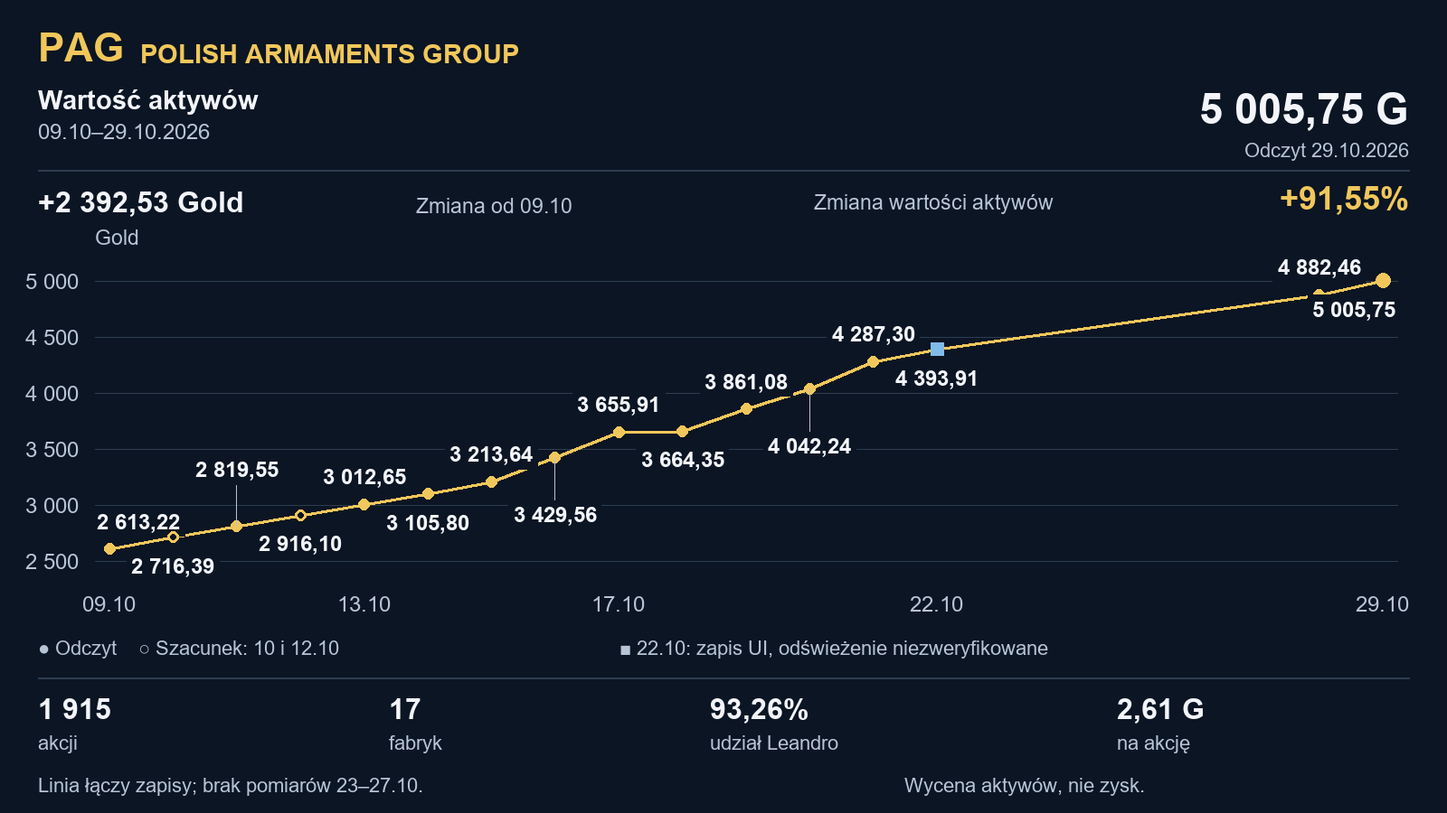
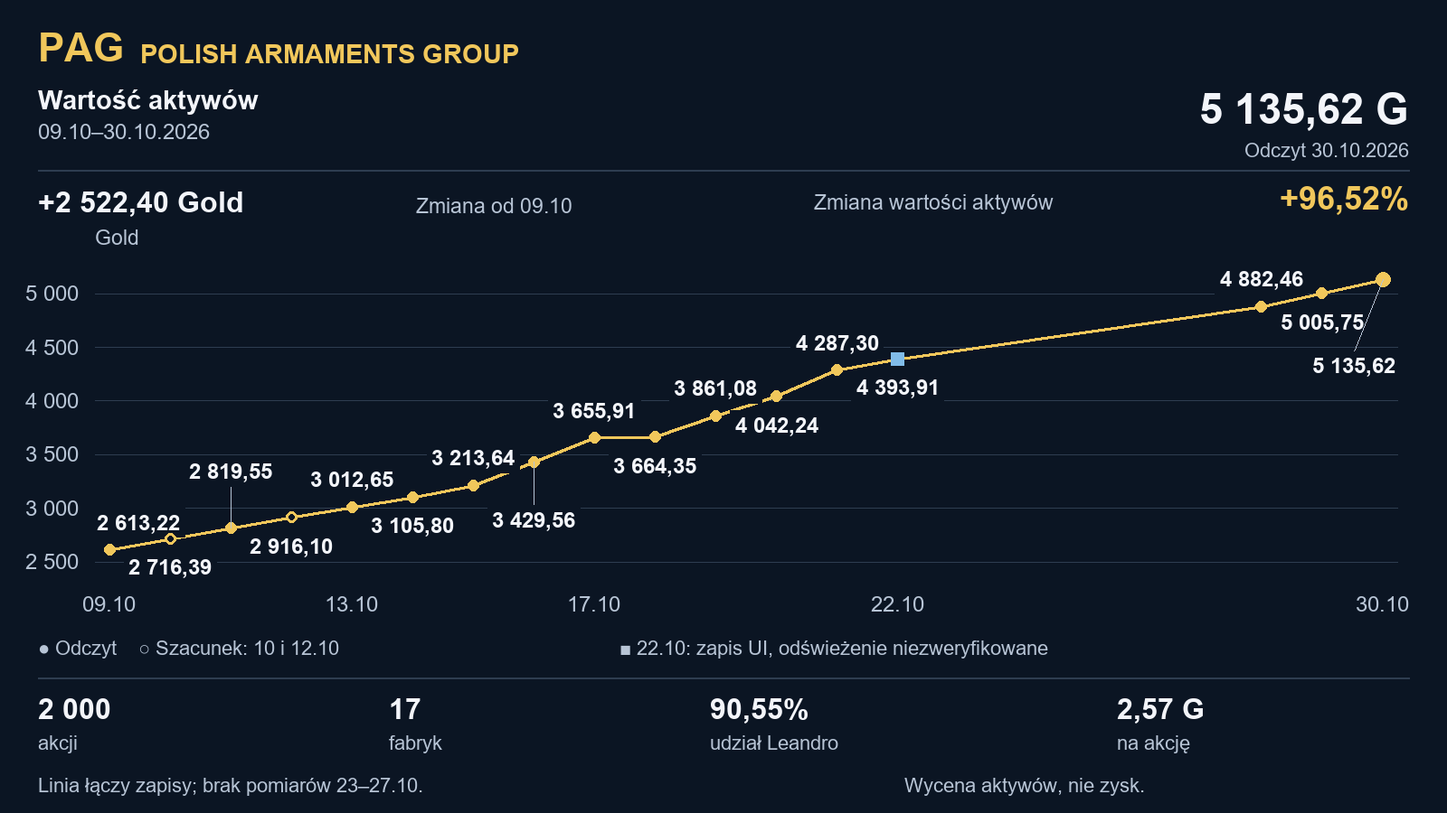
Add daily PAG measurement for 30 October 2026

diff --git a/pag-chart.html b/pag-chart.html
@@ -1805,7 +1805,7 @@ html&gt;body{padding:0}&lt;/style&gt;
 &lt;script src=&quot;https://cdn.jsdelivr.net/npm/d3@7.9.0/dist/d3.min.js&quot;&gt;&lt;/script&gt;
 &lt;script&gt;
 (()=&gt;{
-const history={&quot;company&quot;: &quot;Polish Armaments Group&quot;, &quot;source_url&quot;: &quot;https://vexa.e-sim.org/stockCompany.html?id=45&quot;, &quot;timezone&quot;: &quot;Europe/Warsaw&quot;, &quot;definitions&quot;: {&quot;value_gold&quot;: &quot;Szacowana wartość spółki według Vexa; nie jest zyskiem ani kapitalizacją rynkową.&quot;, &quot;book_value_per_share_gold&quot;: &quot;value_gold / shares; obliczenie, nie cena transakcyjna.&quot;, &quot;factories&quot;: &quot;Ogólnie firm na stronie spółki.&quot;, &quot;leandro_percent&quot;: &quot;100 * leandro_shares / shares&quot;, &quot;status&quot;: &quot;confirmed_in_user_report: odczyt oznaczony jako potwierdzony w raporcie użytkownika; bez niezależnej weryfikacji. estimated_missing_day: szacunek brakującego dnia, nie pomiar. saved_ui_refresh_unverified: zapis UI, odświeżenie wyceny niezweryfikowane.&quot;}, &quot;observations&quot;: [{&quot;date&quot;: &quot;2026-10-09&quot;, &quot;observed_at&quot;: null, &quot;value_gold&quot;: 2613.22, &quot;shares&quot;: null, &quot;leandro_shares&quot;: null, &quot;leandro_percent_reported&quot;: null, &quot;factories&quot;: null, &quot;shareholders&quot;: null, &quot;reported_book_value_per_share_gold&quot;: null, &quot;status&quot;: &quot;confirmed_in_user_report&quot;, &quot;source&quot;: &quot;Raport graficzny przesłany przez użytkownika 2026-10-29&quot;, &quot;source_url&quot;: &quot;https://github.com/piotrzdrenka-droid/pag-chart/blob/main/pag-chart.png?raw=true&quot;, &quot;source_blob_sha&quot;: &quot;903d835cdb9e62c0f7de1f23d691339e15198607&quot;}, {&quot;date&quot;: &quot;2026-10-10&quot;, &quot;observed_at&quot;: null, &quot;value_gold&quot;: 2716.39, &quot;shares&quot;: null, &quot;leandro_shares&quot;: null, &quot;leandro_percent_reported&quot;: null, &quot;factories&quot;: null, &quot;shareholders&quot;: null, &quot;reported_book_value_per_share_gold&quot;: null, &quot;status&quot;: &quot;estimated_missing_day&quot;, &quot;source&quot;: &quot;Raport graficzny przesłany przez użytkownika 2026-10-29&quot;, &quot;source_url&quot;: &quot;https://github.com/piotrzdrenka-droid/pag-chart/blob/main/pag-chart.png?raw=true&quot;, &quot;source_blob_sha&quot;: &quot;903d835cdb9e62c0f7de1f23d691339e15198607&quot;}, {&quot;date&quot;: &quot;2026-10-11&quot;, &quot;observed_at&quot;: null, &quot;value_gold&quot;: 2819.55, &quot;shares&quot;: 1572, &quot;leandro_shares&quot;: 1490, &quot;leandro_percent_reported&quot;: 94.78, &quot;factories&quot;: 14, &quot;reported_book_value_per_share_gold&quot;: null, &quot;source&quot;: &quot;Dane historyczne przekazane przez użytkownika 2026-10-28&quot;, &quot;corroborating_sources&quot;: [&quot;Raport ze zdjęcia przekazany 2026-10-29&quot;], &quot;status&quot;: &quot;confirmed&quot;}, {&quot;date&quot;: &quot;2026-10-12&quot;, &quot;observed_at&quot;: null, &quot;value_gold&quot;: 2916.1, &quot;shares&quot;: null, &quot;leandro_shares&quot;: null, &quot;leandro_percent_reported&quot;: null, &quot;factories&quot;: null, &quot;shareholders&quot;: null, &quot;reported_book_value_per_share_gold&quot;: null, &quot;status&quot;: &quot;estimated_missing_day&quot;, &quot;source&quot;: &quot;Raport graficzny przesłany przez użytkownika 2026-10-29&quot;, &quot;source_url&quot;: &quot;https://github.com/piotrzdrenka-droid/pag-chart/blob/main/pag-chart.png?raw=true&quot;, &quot;source_blob_sha&quot;: &quot;903d835cdb9e62c0f7de1f23d691339e15198607&quot;}, {&quot;date&quot;: &quot;2026-10-13&quot;, &quot;observed_at&quot;: null, &quot;value_gold&quot;: 3012.65, &quot;shares&quot;: null, &quot;leandro_shares&quot;: null, &quot;leandro_percent_reported&quot;: null, &quot;factories&quot;: null, &quot;shareholders&quot;: null, &quot;reported_book_value_per_share_gold&quot;: null, &quot;status&quot;: &quot;confirmed_in_user_report&quot;, &quot;source&quot;: &quot;Raport graficzny przesłany przez użytkownika 2026-10-29&quot;, &quot;source_url&quot;: &quot;https://github.com/piotrzdrenka-droid/pag-chart/blob/main/pag-chart.png?raw=true&quot;, &quot;source_blob_sha&quot;: &quot;903d835cdb9e62c0f7de1f23d691339e15198607&quot;}, {&quot;date&quot;: &quot;2026-10-14&quot;, &quot;observed_at&quot;: null, &quot;value_gold&quot;: 3105.8, &quot;shares&quot;: null, &quot;leandro_shares&quot;: null, &quot;leandro_percent_reported&quot;: null, &quot;factories&quot;: null, &quot;shareholders&quot;: null, &quot;reported_book_value_per_share_gold&quot;: null, &quot;status&quot;: &quot;confirmed_in_user_report&quot;, &quot;source&quot;: &quot;Raport graficzny przesłany przez użytkownika 2026-10-29&quot;, &quot;source_url&quot;: &quot;https://github.com/piotrzdrenka-droid/pag-chart/blob/main/pag-chart.png?raw=true&quot;, &quot;source_blob_sha&quot;: &quot;903d835cdb9e62c0f7de1f23d691339e15198607&quot;}, {&quot;date&quot;: &quot;2026-10-15&quot;, &quot;observed_at&quot;: null, &quot;value_gold&quot;: 3213.64, &quot;shares&quot;: null, &quot;leandro_shares&quot;: null, &quot;leandro_percent_reported&quot;: null, &quot;factories&quot;: null, &quot;shareholders&quot;: null, &quot;reported_book_value_per_share_gold&quot;: null, &quot;status&quot;: &quot;confirmed_in_user_report&quot;, &quot;source&quot;: &quot;Raport graficzny przesłany przez użytkownika 2026-10-29&quot;, &quot;source_url&quot;: &quot;https://github.com/piotrzdrenka-droid/pag-chart/blob/main/pag-chart.png?raw=true&quot;, &quot;source_blob_sha&quot;: &quot;903d835cdb9e62c0f7de1f23d691339e15198607&quot;}, {&quot;date&quot;: &quot;2026-10-16&quot;, &quot;observed_at&quot;: null, &quot;value_gold&quot;: 3429.56, &quot;shares&quot;: null, &quot;leandro_shares&quot;: null, &quot;leandro_percent_reported&quot;: null, &quot;factories&quot;: null, &quot;shareholders&quot;: null, &quot;reported_book_value_per_share_gold&quot;: null, &quot;status&quot;: &quot;confirmed_in_user_report&quot;, &quot;source&quot;: &quot;Raport graficzny przesłany przez użytkownika 2026-10-29&quot;, &quot;source_url&quot;: &quot;https://github.com/piotrzdrenka-droid/pag-chart/blob/main/pag-chart.png?raw=true&quot;, &quot;source_blob_sha&quot;: &quot;903d835cdb9e62c0f7de1f23d691339e15198607&quot;}, {&quot;date&quot;: &quot;2026-10-17&quot;, &quot;observed_at&quot;: null, &quot;value_gold&quot;: 3655.91, &quot;shares&quot;: null, &quot;leandro_shares&quot;: null, &quot;leandro_percent_reported&quot;: null, &quot;factories&quot;: null, &quot;shareholders&quot;: null, &quot;reported_book_value_per_share_gold&quot;: null, &quot;status&quot;: &quot;confirmed_in_user_report&quot;, &quot;source&quot;: &quot;Raport graficzny przesłany przez użytkownika 2026-10-29&quot;, &quot;source_url&quot;: &quot;https://github.com/piotrzdrenka-droid/pag-chart/blob/main/pag-chart.png?raw=true&quot;, &quot;source_blob_sha&quot;: &quot;903d835cdb9e62c0f7de1f23d691339e15198607&quot;}, {&quot;date&quot;: &quot;2026-10-18&quot;, &quot;observed_at&quot;: null, &quot;value_gold&quot;: 3664.35, &quot;shares&quot;: null, &quot;leandro_shares&quot;: null, &quot;leandro_percent_reported&quot;: null, &quot;factories&quot;: null, &quot;shareholders&quot;: null, &quot;reported_book_value_per_share_gold&quot;: null, &quot;status&quot;: &quot;confirmed_in_user_report&quot;, &quot;source&quot;: &quot;Raport graficzny przesłany przez użytkownika 2026-10-29&quot;, &quot;source_url&quot;: &quot;https://github.com/piotrzdrenka-droid/pag-chart/blob/main/pag-chart.png?raw=true&quot;, &quot;source_blob_sha&quot;: &quot;903d835cdb9e62c0f7de1f23d691339e15198607&quot;}, {&quot;date&quot;: &quot;2026-10-19&quot;, &quot;observed_at&quot;: null, &quot;value_gold&quot;: 3861.08, &quot;shares&quot;: null, &quot;leandro_shares&quot;: null, &quot;leandro_percent_reported&quot;: null, &quot;factories&quot;: null, &quot;shareholders&quot;: null, &quot;reported_book_value_per_share_gold&quot;: null, &quot;status&quot;: &quot;confirmed_in_user_report&quot;, &quot;source&quot;: &quot;Raport graficzny przesłany przez użytkownika 2026-10-29&quot;, &quot;source_url&quot;: &quot;https://github.com/piotrzdrenka-droid/pag-chart/blob/main/pag-chart.png?raw=true&quot;, &quot;source_blob_sha&quot;: &quot;903d835cdb9e62c0f7de1f23d691339e15198607&quot;}, {&quot;date&quot;: &quot;2026-10-20&quot;, &quot;observed_at&quot;: null, &quot;value_gold&quot;: 4042.24, &quot;shares&quot;: null, &quot;leandro_shares&quot;: null, &quot;leandro_percent_reported&quot;: null, &quot;factories&quot;: null, &quot;shareholders&quot;: null, &quot;reported_book_value_per_share_gold&quot;: null, &quot;status&quot;: &quot;confirmed_in_user_report&quot;, &quot;source&quot;: &quot;Raport graficzny przesłany przez użytkownika 2026-10-29&quot;, &quot;source_url&quot;: &quot;https://github.com/piotrzdrenka-droid/pag-chart/blob/main/pag-chart.png?raw=true&quot;, &quot;source_blob_sha&quot;: &quot;903d835cdb9e62c0f7de1f23d691339e15198607&quot;}, {&quot;date&quot;: &quot;2026-10-21&quot;, &quot;observed_at&quot;: null, &quot;value_gold&quot;: 4287.3, &quot;shares&quot;: null, &quot;leandro_shares&quot;: null, &quot;leandro_percent_reported&quot;: null, &quot;factories&quot;: null, &quot;shareholders&quot;: null, &quot;reported_book_value_per_share_gold&quot;: null, &quot;status&quot;: &quot;confirmed_in_user_report&quot;, &quot;source&quot;: &quot;Raport graficzny przesłany przez użytkownika 2026-10-29&quot;, &quot;source_url&quot;: &quot;https://github.com/piotrzdrenka-droid/pag-chart/blob/main/pag-chart.png?raw=true&quot;, &quot;source_blob_sha&quot;: &quot;903d835cdb9e62c0f7de1f23d691339e15198607&quot;}, {&quot;date&quot;: &quot;2026-10-22&quot;, &quot;observed_at&quot;: null, &quot;value_gold&quot;: 4393.91, &quot;shares&quot;: 1888, &quot;leandro_shares&quot;: null, &quot;leandro_percent_reported&quot;: null, &quot;factories&quot;: 16, &quot;shareholders&quot;: 9, &quot;reported_book_value_per_share_gold&quot;: 2.33, &quot;status&quot;: &quot;saved_ui_refresh_unverified&quot;, &quot;source&quot;: &quot;Raport graficzny przesłany przez użytkownika 2026-10-29&quot;, &quot;source_url&quot;: &quot;https://github.com/piotrzdrenka-droid/pag-chart/blob/main/pag-chart.png?raw=true&quot;, &quot;source_blob_sha&quot;: &quot;903d835cdb9e62c0f7de1f23d691339e15198607&quot;}, {&quot;date&quot;: &quot;2026-10-28&quot;, &quot;observed_at&quot;: &quot;2026-10-28T18:58:00Z&quot;, &quot;value_gold&quot;: 4882.46, &quot;shares&quot;: 1908, &quot;leandro_shares&quot;: 1779, &quot;leandro_percent_reported&quot;: 93.24, &quot;factories&quot;: 17, &quot;reported_book_value_per_share_gold&quot;: 2.56, &quot;source&quot;: &quot;Odczyt widocznej strony Vexa bez logowania; czas zapisu pomiaru, nie czas wyceny aktywów&quot;, &quot;status&quot;: &quot;confirmed&quot;}, {&quot;date&quot;: &quot;2026-10-29&quot;, &quot;observed_at&quot;: &quot;2026-10-29T18:12:54Z&quot;, &quot;value_gold&quot;: 5005.75, &quot;shares&quot;: 1915, &quot;leandro_shares&quot;: 1786, &quot;leandro_percent_reported&quot;: 93.26, &quot;factories&quot;: 17, &quot;shareholders&quot;: 9, &quot;reported_book_value_per_share_gold&quot;: 2.61, &quot;status&quot;: &quot;confirmed&quot;, &quot;source&quot;: &quot;Odczyt publicznej strony Vexa po wybraniu Odśwież. Serwis potwierdził: Raport został odświeżony. Czas zapisu pomiaru, nie gwarantowany czas wyceny poszczególnych aktywów.&quot;, &quot;source_url&quot;: &quot;https://vexa.e-sim.org/stockCompany.html?id=45&quot;, &quot;report_refresh_confirmed&quot;: true}], &quot;events&quot;: [{&quot;date&quot;: &quot;2026-10-13&quot;, &quot;type&quot;: &quot;dividend&quot;, &quot;amount_gold&quot;: 200, &quot;source&quot;: &quot;Raport graficzny użytkownika&quot;, &quot;notes&quot;: &quot;Wypłata według raportu. Nie doliczono do wartości aktywów.&quot;}]};
+const history={&quot;company&quot;: &quot;Polish Armaments Group&quot;, &quot;source_url&quot;: &quot;https://vexa.e-sim.org/stockCompany.html?id=45&quot;, &quot;timezone&quot;: &quot;Europe/Warsaw&quot;, &quot;definitions&quot;: {&quot;value_gold&quot;: &quot;Szacowana wartość spółki według Vexa; nie jest zyskiem ani kapitalizacją rynkową.&quot;, &quot;book_value_per_share_gold&quot;: &quot;value_gold / shares; obliczenie, nie cena transakcyjna.&quot;, &quot;factories&quot;: &quot;Ogólnie firm na stronie spółki.&quot;, &quot;leandro_percent&quot;: &quot;100 * leandro_shares / shares&quot;, &quot;status&quot;: &quot;confirmed_in_user_report: odczyt oznaczony jako potwierdzony w raporcie użytkownika; bez niezależnej weryfikacji. estimated_missing_day: szacunek brakującego dnia, nie pomiar. saved_ui_refresh_unverified: zapis UI, odświeżenie wyceny niezweryfikowane.&quot;}, &quot;observations&quot;: [{&quot;date&quot;: &quot;2026-10-09&quot;, &quot;observed_at&quot;: null, &quot;value_gold&quot;: 2613.22, &quot;shares&quot;: null, &quot;leandro_shares&quot;: null, &quot;leandro_percent_reported&quot;: null, &quot;factories&quot;: null, &quot;shareholders&quot;: null, &quot;reported_book_value_per_share_gold&quot;: null, &quot;status&quot;: &quot;confirmed_in_user_report&quot;, &quot;source&quot;: &quot;Raport graficzny przesłany przez użytkownika 2026-10-29&quot;, &quot;source_url&quot;: &quot;https://github.com/piotrzdrenka-droid/pag-chart/blob/main/pag-chart.png?raw=true&quot;, &quot;source_blob_sha&quot;: &quot;903d835cdb9e62c0f7de1f23d691339e15198607&quot;}, {&quot;date&quot;: &quot;2026-10-10&quot;, &quot;observed_at&quot;: null, &quot;value_gold&quot;: 2716.39, &quot;shares&quot;: null, &quot;leandro_shares&quot;: null, &quot;leandro_percent_reported&quot;: null, &quot;factories&quot;: null, &quot;shareholders&quot;: null, &quot;reported_book_value_per_share_gold&quot;: null, &quot;status&quot;: &quot;estimated_missing_day&quot;, &quot;source&quot;: &quot;Raport graficzny przesłany przez użytkownika 2026-10-29&quot;, &quot;source_url&quot;: &quot;https://github.com/piotrzdrenka-droid/pag-chart/blob/main/pag-chart.png?raw=true&quot;, &quot;source_blob_sha&quot;: &quot;903d835cdb9e62c0f7de1f23d691339e15198607&quot;}, {&quot;date&quot;: &quot;2026-10-11&quot;, &quot;observed_at&quot;: null, &quot;value_gold&quot;: 2819.55, &quot;shares&quot;: 1572, &quot;leandro_shares&quot;: 1490, &quot;leandro_percent_reported&quot;: 94.78, &quot;factories&quot;: 14, &quot;reported_book_value_per_share_gold&quot;: null, &quot;source&quot;: &quot;Dane historyczne przekazane przez użytkownika 2026-10-28&quot;, &quot;corroborating_sources&quot;: [&quot;Raport ze zdjęcia przekazany 2026-10-29&quot;], &quot;status&quot;: &quot;confirmed&quot;}, {&quot;date&quot;: &quot;2026-10-12&quot;, &quot;observed_at&quot;: null, &quot;value_gold&quot;: 2916.1, &quot;shares&quot;: null, &quot;leandro_shares&quot;: null, &quot;leandro_percent_reported&quot;: null, &quot;factories&quot;: null, &quot;shareholders&quot;: null, &quot;reported_book_value_per_share_gold&quot;: null, &quot;status&quot;: &quot;estimated_missing_day&quot;, &quot;source&quot;: &quot;Raport graficzny przesłany przez użytkownika 2026-10-29&quot;, &quot;source_url&quot;: &quot;https://github.com/piotrzdrenka-droid/pag-chart/blob/main/pag-chart.png?raw=true&quot;, &quot;source_blob_sha&quot;: &quot;903d835cdb9e62c0f7de1f23d691339e15198607&quot;}, {&quot;date&quot;: &quot;2026-10-13&quot;, &quot;observed_at&quot;: null, &quot;value_gold&quot;: 3012.65, &quot;shares&quot;: null, &quot;leandro_shares&quot;: null, &quot;leandro_percent_reported&quot;: null, &quot;factories&quot;: null, &quot;shareholders&quot;: null, &quot;reported_book_value_per_share_gold&quot;: null, &quot;status&quot;: &quot;confirmed_in_user_report&quot;, &quot;source&quot;: &quot;Raport graficzny przesłany przez użytkownika 2026-10-29&quot;, &quot;source_url&quot;: &quot;https://github.com/piotrzdrenka-droid/pag-chart/blob/main/pag-chart.png?raw=true&quot;, &quot;source_blob_sha&quot;: &quot;903d835cdb9e62c0f7de1f23d691339e15198607&quot;}, {&quot;date&quot;: &quot;2026-10-14&quot;, &quot;observed_at&quot;: null, &quot;value_gold&quot;: 3105.8, &quot;shares&quot;: null, &quot;leandro_shares&quot;: null, &quot;leandro_percent_reported&quot;: null, &quot;factories&quot;: null, &quot;shareholders&quot;: null, &quot;reported_book_value_per_share_gold&quot;: null, &quot;status&quot;: &quot;confirmed_in_user_report&quot;, &quot;source&quot;: &quot;Raport graficzny przesłany przez użytkownika 2026-10-29&quot;, &quot;source_url&quot;: &quot;https://github.com/piotrzdrenka-droid/pag-chart/blob/main/pag-chart.png?raw=true&quot;, &quot;source_blob_sha&quot;: &quot;903d835cdb9e62c0f7de1f23d691339e15198607&quot;}, {&quot;date&quot;: &quot;2026-10-15&quot;, &quot;observed_at&quot;: null, &quot;value_gold&quot;: 3213.64, &quot;shares&quot;: null, &quot;leandro_shares&quot;: null, &quot;leandro_percent_reported&quot;: null, &quot;factories&quot;: null, &quot;shareholders&quot;: null, &quot;reported_book_value_per_share_gold&quot;: null, &quot;status&quot;: &quot;confirmed_in_user_report&quot;, &quot;source&quot;: &quot;Raport graficzny przesłany przez użytkownika 2026-10-29&quot;, &quot;source_url&quot;: &quot;https://github.com/piotrzdrenka-droid/pag-chart/blob/main/pag-chart.png?raw=true&quot;, &quot;source_blob_sha&quot;: &quot;903d835cdb9e62c0f7de1f23d691339e15198607&quot;}, {&quot;date&quot;: &quot;2026-10-16&quot;, &quot;observed_at&quot;: null, &quot;value_gold&quot;: 3429.56, &quot;shares&quot;: null, &quot;leandro_shares&quot;: null, &quot;leandro_percent_reported&quot;: null, &quot;factories&quot;: null, &quot;shareholders&quot;: null, &quot;reported_book_value_per_share_gold&quot;: null, &quot;status&quot;: &quot;confirmed_in_user_report&quot;, &quot;source&quot;: &quot;Raport graficzny przesłany przez użytkownika 2026-10-29&quot;, &quot;source_url&quot;: &quot;https://github.com/piotrzdrenka-droid/pag-chart/blob/main/pag-chart.png?raw=true&quot;, &quot;source_blob_sha&quot;: &quot;903d835cdb9e62c0f7de1f23d691339e15198607&quot;}, {&quot;date&quot;: &quot;2026-10-17&quot;, &quot;observed_at&quot;: null, &quot;value_gold&quot;: 3655.91, &quot;shares&quot;: null, &quot;leandro_shares&quot;: null, &quot;leandro_percent_reported&quot;: null, &quot;factories&quot;: null, &quot;shareholders&quot;: null, &quot;reported_book_value_per_share_gold&quot;: null, &quot;status&quot;: &quot;confirmed_in_user_report&quot;, &quot;source&quot;: &quot;Raport graficzny przesłany przez użytkownika 2026-10-29&quot;, &quot;source_url&quot;: &quot;https://github.com/piotrzdrenka-droid/pag-chart/blob/main/pag-chart.png?raw=true&quot;, &quot;source_blob_sha&quot;: &quot;903d835cdb9e62c0f7de1f23d691339e15198607&quot;}, {&quot;date&quot;: &quot;2026-10-18&quot;, &quot;observed_at&quot;: null, &quot;value_gold&quot;: 3664.35, &quot;shares&quot;: null, &quot;leandro_shares&quot;: null, &quot;leandro_percent_reported&quot;: null, &quot;factories&quot;: null, &quot;shareholders&quot;: null, &quot;reported_book_value_per_share_gold&quot;: null, &quot;status&quot;: &quot;confirmed_in_user_report&quot;, &quot;source&quot;: &quot;Raport graficzny przesłany przez użytkownika 2026-10-29&quot;, &quot;source_url&quot;: &quot;https://github.com/piotrzdrenka-droid/pag-chart/blob/main/pag-chart.png?raw=true&quot;, &quot;source_blob_sha&quot;: &quot;903d835cdb9e62c0f7de1f23d691339e15198607&quot;}, {&quot;date&quot;: &quot;2026-10-19&quot;, &quot;observed_at&quot;: null, &quot;value_gold&quot;: 3861.08, &quot;shares&quot;: null, &quot;leandro_shares&quot;: null, &quot;leandro_percent_reported&quot;: null, &quot;factories&quot;: null, &quot;shareholders&quot;: null, &quot;reported_book_value_per_share_gold&quot;: null, &quot;status&quot;: &quot;confirmed_in_user_report&quot;, &quot;source&quot;: &quot;Raport graficzny przesłany przez użytkownika 2026-10-29&quot;, &quot;source_url&quot;: &quot;https://github.com/piotrzdrenka-droid/pag-chart/blob/main/pag-chart.png?raw=true&quot;, &quot;source_blob_sha&quot;: &quot;903d835cdb9e62c0f7de1f23d691339e15198607&quot;}, {&quot;date&quot;: &quot;2026-10-20&quot;, &quot;observed_at&quot;: null, &quot;value_gold&quot;: 4042.24, &quot;shares&quot;: null, &quot;leandro_shares&quot;: null, &quot;leandro_percent_reported&quot;: null, &quot;factories&quot;: null, &quot;shareholders&quot;: null, &quot;reported_book_value_per_share_gold&quot;: null, &quot;status&quot;: &quot;confirmed_in_user_report&quot;, &quot;source&quot;: &quot;Raport graficzny przesłany przez użytkownika 2026-10-29&quot;, &quot;source_url&quot;: &quot;https://github.com/piotrzdrenka-droid/pag-chart/blob/main/pag-chart.png?raw=true&quot;, &quot;source_blob_sha&quot;: &quot;903d835cdb9e62c0f7de1f23d691339e15198607&quot;}, {&quot;date&quot;: &quot;2026-10-21&quot;, &quot;observed_at&quot;: null, &quot;value_gold&quot;: 4287.3, &quot;shares&quot;: null, &quot;leandro_shares&quot;: null, &quot;leandro_percent_reported&quot;: null, &quot;factories&quot;: null, &quot;shareholders&quot;: null, &quot;reported_book_value_per_share_gold&quot;: null, &quot;status&quot;: &quot;confirmed_in_user_report&quot;, &quot;source&quot;: &quot;Raport graficzny przesłany przez użytkownika 2026-10-29&quot;, &quot;source_url&quot;: &quot;https://github.com/piotrzdrenka-droid/pag-chart/blob/main/pag-chart.png?raw=true&quot;, &quot;source_blob_sha&quot;: &quot;903d835cdb9e62c0f7de1f23d691339e15198607&quot;}, {&quot;date&quot;: &quot;2026-10-22&quot;, &quot;observed_at&quot;: null, &quot;value_gold&quot;: 4393.91, &quot;shares&quot;: 1888, &quot;leandro_shares&quot;: null, &quot;leandro_percent_reported&quot;: null, &quot;factories&quot;: 16, &quot;shareholders&quot;: 9, &quot;reported_book_value_per_share_gold&quot;: 2.33, &quot;status&quot;: &quot;saved_ui_refresh_unverified&quot;, &quot;source&quot;: &quot;Raport graficzny przesłany przez użytkownika 2026-10-29&quot;, &quot;source_url&quot;: &quot;https://github.com/piotrzdrenka-droid/pag-chart/blob/main/pag-chart.png?raw=true&quot;, &quot;source_blob_sha&quot;: &quot;903d835cdb9e62c0f7de1f23d691339e15198607&quot;}, {&quot;date&quot;: &quot;2026-10-28&quot;, &quot;observed_at&quot;: &quot;2026-10-28T18:58:00Z&quot;, &quot;value_gold&quot;: 4882.46, &quot;shares&quot;: 1908, &quot;leandro_shares&quot;: 1779, &quot;leandro_percent_reported&quot;: 93.24, &quot;factories&quot;: 17, &quot;reported_book_value_per_share_gold&quot;: 2.56, &quot;source&quot;: &quot;Odczyt widocznej strony Vexa bez logowania; czas zapisu pomiaru, nie czas wyceny aktywów&quot;, &quot;status&quot;: &quot;confirmed&quot;}, {&quot;date&quot;: &quot;2026-10-29&quot;, &quot;observed_at&quot;: &quot;2026-10-29T18:12:54Z&quot;, &quot;value_gold&quot;: 5005.75, &quot;shares&quot;: 1915, &quot;leandro_shares&quot;: 1786, &quot;leandro_percent_reported&quot;: 93.26, &quot;factories&quot;: 17, &quot;shareholders&quot;: 9, &quot;reported_book_value_per_share_gold&quot;: 2.61, &quot;status&quot;: &quot;confirmed&quot;, &quot;source&quot;: &quot;Odczyt publicznej strony Vexa po wybraniu Odśwież. Serwis potwierdził: Raport został odświeżony. Czas zapisu pomiaru, nie gwarantowany czas wyceny poszczególnych aktywów.&quot;, &quot;source_url&quot;: &quot;https://vexa.e-sim.org/stockCompany.html?id=45&quot;, &quot;report_refresh_confirmed&quot;: true}, {&quot;date&quot;: &quot;2026-10-30&quot;, &quot;observed_at&quot;: &quot;2026-10-30T19:01:41Z&quot;, &quot;value_gold&quot;: 5135.62, &quot;shares&quot;: 2000, &quot;leandro_shares&quot;: 1811, &quot;leandro_percent_reported&quot;: 90.55, &quot;factories&quot;: 17, &quot;shareholders&quot;: 10, &quot;reported_book_value_per_share_gold&quot;: 2.57, &quot;status&quot;: &quot;confirmed&quot;, &quot;source&quot;: &quot;Odczyt widocznej strony Vexa. Nie wywołano odświeżenia raportu; czas odczytu nie potwierdza czasu wyceny aktywów.&quot;, &quot;source_url&quot;: &quot;https://vexa.e-sim.org/stockCompany.html?id=45&quot;, &quot;report_refresh_confirmed&quot;: false}], &quot;events&quot;: [{&quot;date&quot;: &quot;2026-10-13&quot;, &quot;type&quot;: &quot;dividend&quot;, &quot;amount_gold&quot;: 200, &quot;source&quot;: &quot;Raport graficzny użytkownika&quot;, &quot;notes&quot;: &quot;Wypłata według raportu. Nie doliczono do wartości aktywów.&quot;}]};
 const root=document.getElementById(&#x27;pag-growth&#x27;),select=root.querySelector(&#x27;select&#x27;),box=root.querySelector(&#x27;#pag-plot&#x27;);
 const data=history.observations.map(d=&gt;({...d,x:new Date(d.date+&#x27;T12:00:00Z&#x27;),ownership:d.leandro_shares!=null&amp;&amp;d.shares&gt;0?100*d.leandro_shares/d.shares:null,perShare:d.value_gold!=null&amp;&amp;d.shares&gt;0?d.value_gold/d.shares:null}));
 const metrics={value_gold:[&#x27;Wartość spółki&#x27;,&#x27;Gold&#x27;,2],shares:[&#x27;Wyemitowane akcje&#x27;,&#x27;akcje&#x27;,0],leandro_shares:[&#x27;Akcje Leandro Daniels&#x27;,&#x27;akcje&#x27;,0],ownership:[&#x27;Udział Leandro&#x27;,&#x27;%&#x27;,2],perShare:[&#x27;Wartość aktywów na akcję&#x27;,&#x27;Gold/akcję&#x27;,4],factories:[&#x27;Fabryki&#x27;,&#x27;fabryki&#x27;,0]};

diff --git a/pag-growth.html b/pag-growth.html
@@ -13,7 +13,7 @@
 <script src="https://cdn.jsdelivr.net/npm/d3@7.9.0/dist/d3.min.js"></script>
 <script>
 (()=>{
-const history={"company": "Polish Armaments Group", "source_url": "https://vexa.e-sim.org/stockCompany.html?id=45", "timezone": "Europe/Warsaw", "definitions": {"value_gold": "Szacowana wartość spółki według Vexa; nie jest zyskiem ani kapitalizacją rynkową.", "book_value_per_share_gold": "value_gold / shares; obliczenie, nie cena transakcyjna.", "factories": "Ogólnie firm na stronie spółki.", "leandro_percent": "100 * leandro_shares / shares", "status": "confirmed_in_user_report: odczyt oznaczony jako potwierdzony w raporcie użytkownika; bez niezależnej weryfikacji. estimated_missing_day: szacunek brakującego dnia, nie pomiar. saved_ui_refresh_unverified: zapis UI, odświeżenie wyceny niezweryfikowane."}, "observations": [{"date": "2026-10-09", "observed_at": null, "value_gold": 2613.22, "shares": null, "leandro_shares": null, "leandro_percent_reported": null, "factories": null, "shareholders": null, "reported_book_value_per_share_gold": null, "status": "confirmed_in_user_report", "source": "Raport graficzny przesłany przez użytkownika 2026-10-29", "source_url": "https://github.com/piotrzdrenka-droid/pag-chart/blob/main/pag-chart.png?raw=true", "source_blob_sha": "903d835cdb9e62c0f7de1f23d691339e15198607"}, {"date": "2026-10-10", "observed_at": null, "value_gold": 2716.39, "shares": null, "leandro_shares": null, "leandro_percent_reported": null, "factories": null, "shareholders": null, "reported_book_value_per_share_gold": null, "status": "estimated_missing_day", "source": "Raport graficzny przesłany przez użytkownika 2026-10-29", "source_url": "https://github.com/piotrzdrenka-droid/pag-chart/blob/main/pag-chart.png?raw=true", "source_blob_sha": "903d835cdb9e62c0f7de1f23d691339e15198607"}, {"date": "2026-10-11", "observed_at": null, "value_gold": 2819.55, "shares": 1572, "leandro_shares": 1490, "leandro_percent_reported": 94.78, "factories": 14, "reported_book_value_per_share_gold": null, "source": "Dane historyczne przekazane przez użytkownika 2026-10-28", "corroborating_sources": ["Raport ze zdjęcia przekazany 2026-10-29"], "status": "confirmed"}, {"date": "2026-10-12", "observed_at": null, "value_gold": 2916.1, "shares": null, "leandro_shares": null, "leandro_percent_reported": null, "factories": null, "shareholders": null, "reported_book_value_per_share_gold": null, "status": "estimated_missing_day", "source": "Raport graficzny przesłany przez użytkownika 2026-10-29", "source_url": "https://github.com/piotrzdrenka-droid/pag-chart/blob/main/pag-chart.png?raw=true", "source_blob_sha": "903d835cdb9e62c0f7de1f23d691339e15198607"}, {"date": "2026-10-13", "observed_at": null, "value_gold": 3012.65, "shares": null, "leandro_shares": null, "leandro_percent_reported": null, "factories": null, "shareholders": null, "reported_book_value_per_share_gold": null, "status": "confirmed_in_user_report", "source": "Raport graficzny przesłany przez użytkownika 2026-10-29", "source_url": "https://github.com/piotrzdrenka-droid/pag-chart/blob/main/pag-chart.png?raw=true", "source_blob_sha": "903d835cdb9e62c0f7de1f23d691339e15198607"}, {"date": "2026-10-14", "observed_at": null, "value_gold": 3105.8, "shares": null, "leandro_shares": null, "leandro_percent_reported": null, "factories": null, "shareholders": null, "reported_book_value_per_share_gold": null, "status": "confirmed_in_user_report", "source": "Raport graficzny przesłany przez użytkownika 2026-10-29", "source_url": "https://github.com/piotrzdrenka-droid/pag-chart/blob/main/pag-chart.png?raw=true", "source_blob_sha": "903d835cdb9e62c0f7de1f23d691339e15198607"}, {"date": "2026-10-15", "observed_at": null, "value_gold": 3213.64, "shares": null, "leandro_shares": null, "leandro_percent_reported": null, "factories": null, "shareholders": null, "reported_book_value_per_share_gold": null, "status": "confirmed_in_user_report", "source": "Raport graficzny przesłany przez użytkownika 2026-10-29", "source_url": "https://github.com/piotrzdrenka-droid/pag-chart/blob/main/pag-chart.png?raw=true", "source_blob_sha": "903d835cdb9e62c0f7de1f23d691339e15198607"}, {"date": "2026-10-16", "observed_at": null, "value_gold": 3429.56, "shares": null, "leandro_shares": null, "leandro_percent_reported": null, "factories": null, "shareholders": null, "reported_book_value_per_share_gold": null, "status": "confirmed_in_user_report", "source": "Raport graficzny przesłany przez użytkownika 2026-10-29", "source_url": "https://github.com/piotrzdrenka-droid/pag-chart/blob/main/pag-chart.png?raw=true", "source_blob_sha": "903d835cdb9e62c0f7de1f23d691339e15198607"}, {"date": "2026-10-17", "observed_at": null, "value_gold": 3655.91, "shares": null, "leandro_shares": null, "leandro_percent_reported": null, "factories": null, "shareholders": null, "reported_book_value_per_share_gold": null, "status": "confirmed_in_user_report", "source": "Raport graficzny przesłany przez użytkownika 2026-10-29", "source_url": "https://github.com/piotrzdrenka-droid/pag-chart/blob/main/pag-chart.png?raw=true", "source_blob_sha": "903d835cdb9e62c0f7de1f23d691339e15198607"}, {"date": "2026-10-18", "observed_at": null, "value_gold": 3664.35, "shares": null, "leandro_shares": null, "leandro_percent_reported": null, "factories": null, "shareholders": null, "reported_book_value_per_share_gold": null, "status": "confirmed_in_user_report", "source": "Raport graficzny przesłany przez użytkownika 2026-10-29", "source_url": "https://github.com/piotrzdrenka-droid/pag-chart/blob/main/pag-chart.png?raw=true", "source_blob_sha": "903d835cdb9e62c0f7de1f23d691339e15198607"}, {"date": "2026-10-19", "observed_at": null, "value_gold": 3861.08, "shares": null, "leandro_shares": null, "leandro_percent_reported": null, "factories": null, "shareholders": null, "reported_book_value_per_share_gold": null, "status": "confirmed_in_user_report", "source": "Raport graficzny przesłany przez użytkownika 2026-10-29", "source_url": "https://github.com/piotrzdrenka-droid/pag-chart/blob/main/pag-chart.png?raw=true", "source_blob_sha": "903d835cdb9e62c0f7de1f23d691339e15198607"}, {"date": "2026-10-20", "observed_at": null, "value_gold": 4042.24, "shares": null, "leandro_shares": null, "leandro_percent_reported": null, "factories": null, "shareholders": null, "reported_book_value_per_share_gold": null, "status": "confirmed_in_user_report", "source": "Raport graficzny przesłany przez użytkownika 2026-10-29", "source_url": "https://github.com/piotrzdrenka-droid/pag-chart/blob/main/pag-chart.png?raw=true", "source_blob_sha": "903d835cdb9e62c0f7de1f23d691339e15198607"}, {"date": "2026-10-21", "observed_at": null, "value_gold": 4287.3, "shares": null, "leandro_shares": null, "leandro_percent_reported": null, "factories": null, "shareholders": null, "reported_book_value_per_share_gold": null, "status": "confirmed_in_user_report", "source": "Raport graficzny przesłany przez użytkownika 2026-10-29", "source_url": "https://github.com/piotrzdrenka-droid/pag-chart/blob/main/pag-chart.png?raw=true", "source_blob_sha": "903d835cdb9e62c0f7de1f23d691339e15198607"}, {"date": "2026-10-22", "observed_at": null, "value_gold": 4393.91, "shares": 1888, "leandro_shares": null, "leandro_percent_reported": null, "factories": 16, "shareholders": 9, "reported_book_value_per_share_gold": 2.33, "status": "saved_ui_refresh_unverified", "source": "Raport graficzny przesłany przez użytkownika 2026-10-29", "source_url": "https://github.com/piotrzdrenka-droid/pag-chart/blob/main/pag-chart.png?raw=true", "source_blob_sha": "903d835cdb9e62c0f7de1f23d691339e15198607"}, {"date": "2026-10-28", "observed_at": "2026-10-28T18:58:00Z", "value_gold": 4882.46, "shares": 1908, "leandro_shares": 1779, "leandro_percent_reported": 93.24, "factories": 17, "reported_book_value_per_share_gold": 2.56, "source": "Odczyt widocznej strony Vexa bez logowania; czas zapisu pomiaru, nie czas wyceny aktywów", "status": "confirmed"}, {"date": "2026-10-29", "observed_at": "2026-10-29T18:12:54Z", "value_gold": 5005.75, "shares": 1915, "leandro_shares": 1786, "leandro_percent_reported": 93.26, "factories": 17, "shareholders": 9, "reported_book_value_per_share_gold": 2.61, "status": "confirmed", "source": "Odczyt publicznej strony Vexa po wybraniu Odśwież. Serwis potwierdził: Raport został odświeżony. Czas zapisu pomiaru, nie gwarantowany czas wyceny poszczególnych aktywów.", "source_url": "https://vexa.e-sim.org/stockCompany.html?id=45", "report_refresh_confirmed": true}], "events": [{"date": "2026-10-13", "type": "dividend", "amount_gold": 200, "source": "Raport graficzny użytkownika", "notes": "Wypłata według raportu. Nie doliczono do wartości aktywów."}]};
+const history={"company": "Polish Armaments Group", "source_url": "https://vexa.e-sim.org/stockCompany.html?id=45", "timezone": "Europe/Warsaw", "definitions": {"value_gold": "Szacowana wartość spółki według Vexa; nie jest zyskiem ani kapitalizacją rynkową.", "book_value_per_share_gold": "value_gold / shares; obliczenie, nie cena transakcyjna.", "factories": "Ogólnie firm na stronie spółki.", "leandro_percent": "100 * leandro_shares / shares", "status": "confirmed_in_user_report: odczyt oznaczony jako potwierdzony w raporcie użytkownika; bez niezależnej weryfikacji. estimated_missing_day: szacunek brakującego dnia, nie pomiar. saved_ui_refresh_unverified: zapis UI, odświeżenie wyceny niezweryfikowane."}, "observations": [{"date": "2026-10-09", "observed_at": null, "value_gold": 2613.22, "shares": null, "leandro_shares": null, "leandro_percent_reported": null, "factories": null, "shareholders": null, "reported_book_value_per_share_gold": null, "status": "confirmed_in_user_report", "source": "Raport graficzny przesłany przez użytkownika 2026-10-29", "source_url": "https://github.com/piotrzdrenka-droid/pag-chart/blob/main/pag-chart.png?raw=true", "source_blob_sha": "903d835cdb9e62c0f7de1f23d691339e15198607"}, {"date": "2026-10-10", "observed_at": null, "value_gold": 2716.39, "shares": null, "leandro_shares": null, "leandro_percent_reported": null, "factories": null, "shareholders": null, "reported_book_value_per_share_gold": null, "status": "estimated_missing_day", "source": "Raport graficzny przesłany przez użytkownika 2026-10-29", "source_url": "https://github.com/piotrzdrenka-droid/pag-chart/blob/main/pag-chart.png?raw=true", "source_blob_sha": "903d835cdb9e62c0f7de1f23d691339e15198607"}, {"date": "2026-10-11", "observed_at": null, "value_gold": 2819.55, "shares": 1572, "leandro_shares": 1490, "leandro_percent_reported": 94.78, "factories": 14, "reported_book_value_per_share_gold": null, "source": "Dane historyczne przekazane przez użytkownika 2026-10-28", "corroborating_sources": ["Raport ze zdjęcia przekazany 2026-10-29"], "status": "confirmed"}, {"date": "2026-10-12", "observed_at": null, "value_gold": 2916.1, "shares": null, "leandro_shares": null, "leandro_percent_reported": null, "factories": null, "shareholders": null, "reported_book_value_per_share_gold": null, "status": "estimated_missing_day", "source": "Raport graficzny przesłany przez użytkownika 2026-10-29", "source_url": "https://github.com/piotrzdrenka-droid/pag-chart/blob/main/pag-chart.png?raw=true", "source_blob_sha": "903d835cdb9e62c0f7de1f23d691339e15198607"}, {"date": "2026-10-13", "observed_at": null, "value_gold": 3012.65, "shares": null, "leandro_shares": null, "leandro_percent_reported": null, "factories": null, "shareholders": null, "reported_book_value_per_share_gold": null, "status": "confirmed_in_user_report", "source": "Raport graficzny przesłany przez użytkownika 2026-10-29", "source_url": "https://github.com/piotrzdrenka-droid/pag-chart/blob/main/pag-chart.png?raw=true", "source_blob_sha": "903d835cdb9e62c0f7de1f23d691339e15198607"}, {"date": "2026-10-14", "observed_at": null, "value_gold": 3105.8, "shares": null, "leandro_shares": null, "leandro_percent_reported": null, "factories": null, "shareholders": null, "reported_book_value_per_share_gold": null, "status": "confirmed_in_user_report", "source": "Raport graficzny przesłany przez użytkownika 2026-10-29", "source_url": "https://github.com/piotrzdrenka-droid/pag-chart/blob/main/pag-chart.png?raw=true", "source_blob_sha": "903d835cdb9e62c0f7de1f23d691339e15198607"}, {"date": "2026-10-15", "observed_at": null, "value_gold": 3213.64, "shares": null, "leandro_shares": null, "leandro_percent_reported": null, "factories": null, "shareholders": null, "reported_book_value_per_share_gold": null, "status": "confirmed_in_user_report", "source": "Raport graficzny przesłany przez użytkownika 2026-10-29", "source_url": "https://github.com/piotrzdrenka-droid/pag-chart/blob/main/pag-chart.png?raw=true", "source_blob_sha": "903d835cdb9e62c0f7de1f23d691339e15198607"}, {"date": "2026-10-16", "observed_at": null, "value_gold": 3429.56, "shares": null, "leandro_shares": null, "leandro_percent_reported": null, "factories": null, "shareholders": null, "reported_book_value_per_share_gold": null, "status": "confirmed_in_user_report", "source": "Raport graficzny przesłany przez użytkownika 2026-10-29", "source_url": "https://github.com/piotrzdrenka-droid/pag-chart/blob/main/pag-chart.png?raw=true", "source_blob_sha": "903d835cdb9e62c0f7de1f23d691339e15198607"}, {"date": "2026-10-17", "observed_at": null, "value_gold": 3655.91, "shares": null, "leandro_shares": null, "leandro_percent_reported": null, "factories": null, "shareholders": null, "reported_book_value_per_share_gold": null, "status": "confirmed_in_user_report", "source": "Raport graficzny przesłany przez użytkownika 2026-10-29", "source_url": "https://github.com/piotrzdrenka-droid/pag-chart/blob/main/pag-chart.png?raw=true", "source_blob_sha": "903d835cdb9e62c0f7de1f23d691339e15198607"}, {"date": "2026-10-18", "observed_at": null, "value_gold": 3664.35, "shares": null, "leandro_shares": null, "leandro_percent_reported": null, "factories": null, "shareholders": null, "reported_book_value_per_share_gold": null, "status": "confirmed_in_user_report", "source": "Raport graficzny przesłany przez użytkownika 2026-10-29", "source_url": "https://github.com/piotrzdrenka-droid/pag-chart/blob/main/pag-chart.png?raw=true", "source_blob_sha": "903d835cdb9e62c0f7de1f23d691339e15198607"}, {"date": "2026-10-19", "observed_at": null, "value_gold": 3861.08, "shares": null, "leandro_shares": null, "leandro_percent_reported": null, "factories": null, "shareholders": null, "reported_book_value_per_share_gold": null, "status": "confirmed_in_user_report", "source": "Raport graficzny przesłany przez użytkownika 2026-10-29", "source_url": "https://github.com/piotrzdrenka-droid/pag-chart/blob/main/pag-chart.png?raw=true", "source_blob_sha": "903d835cdb9e62c0f7de1f23d691339e15198607"}, {"date": "2026-10-20", "observed_at": null, "value_gold": 4042.24, "shares": null, "leandro_shares": null, "leandro_percent_reported": null, "factories": null, "shareholders": null, "reported_book_value_per_share_gold": null, "status": "confirmed_in_user_report", "source": "Raport graficzny przesłany przez użytkownika 2026-10-29", "source_url": "https://github.com/piotrzdrenka-droid/pag-chart/blob/main/pag-chart.png?raw=true", "source_blob_sha": "903d835cdb9e62c0f7de1f23d691339e15198607"}, {"date": "2026-10-21", "observed_at": null, "value_gold": 4287.3, "shares": null, "leandro_shares": null, "leandro_percent_reported": null, "factories": null, "shareholders": null, "reported_book_value_per_share_gold": null, "status": "confirmed_in_user_report", "source": "Raport graficzny przesłany przez użytkownika 2026-10-29", "source_url": "https://github.com/piotrzdrenka-droid/pag-chart/blob/main/pag-chart.png?raw=true", "source_blob_sha": "903d835cdb9e62c0f7de1f23d691339e15198607"}, {"date": "2026-10-22", "observed_at": null, "value_gold": 4393.91, "shares": 1888, "leandro_shares": null, "leandro_percent_reported": null, "factories": 16, "shareholders": 9, "reported_book_value_per_share_gold": 2.33, "status": "saved_ui_refresh_unverified", "source": "Raport graficzny przesłany przez użytkownika 2026-10-29", "source_url": "https://github.com/piotrzdrenka-droid/pag-chart/blob/main/pag-chart.png?raw=true", "source_blob_sha": "903d835cdb9e62c0f7de1f23d691339e15198607"}, {"date": "2026-10-28", "observed_at": "2026-10-28T18:58:00Z", "value_gold": 4882.46, "shares": 1908, "leandro_shares": 1779, "leandro_percent_reported": 93.24, "factories": 17, "reported_book_value_per_share_gold": 2.56, "source": "Odczyt widocznej strony Vexa bez logowania; czas zapisu pomiaru, nie czas wyceny aktywów", "status": "confirmed"}, {"date": "2026-10-29", "observed_at": "2026-10-29T18:12:54Z", "value_gold": 5005.75, "shares": 1915, "leandro_shares": 1786, "leandro_percent_reported": 93.26, "factories": 17, "shareholders": 9, "reported_book_value_per_share_gold": 2.61, "status": "confirmed", "source": "Odczyt publicznej strony Vexa po wybraniu Odśwież. Serwis potwierdził: Raport został odświeżony. Czas zapisu pomiaru, nie gwarantowany czas wyceny poszczególnych aktywów.", "source_url": "https://vexa.e-sim.org/stockCompany.html?id=45", "report_refresh_confirmed": true}, {"date": "2026-10-30", "observed_at": "2026-10-30T19:01:41Z", "value_gold": 5135.62, "shares": 2000, "leandro_shares": 1811, "leandro_percent_reported": 90.55, "factories": 17, "shareholders": 10, "reported_book_value_per_share_gold": 2.57, "status": "confirmed", "source": "Odczyt widocznej strony Vexa. Nie wywołano odświeżenia raportu; czas odczytu nie potwierdza czasu wyceny aktywów.", "source_url": "https://vexa.e-sim.org/stockCompany.html?id=45", "report_refresh_confirmed": false}], "events": [{"date": "2026-10-13", "type": "dividend", "amount_gold": 200, "source": "Raport graficzny użytkownika", "notes": "Wypłata według raportu. Nie doliczono do wartości aktywów."}]};
 const root=document.getElementById('pag-growth'),select=root.querySelector('select'),box=root.querySelector('#pag-plot');
 const data=history.observations.map(d=>({...d,x:new Date(d.date+'T12:00:00Z'),ownership:d.leandro_shares!=null&&d.shares>0?100*d.leandro_shares/d.shares:null,perShare:d.value_gold!=null&&d.shares>0?d.value_gold/d.shares:null}));
 const metrics={value_gold:['Wartość spółki','Gold',2],shares:['Wyemitowane akcje','akcje',0],leandro_shares:['Akcje Leandro Daniels','akcje',0],ownership:['Udział Leandro','%',2],perShare:['Wartość aktywów na akcję','Gold/akcję',4],factories:['Fabryki','fabryki',0]};
